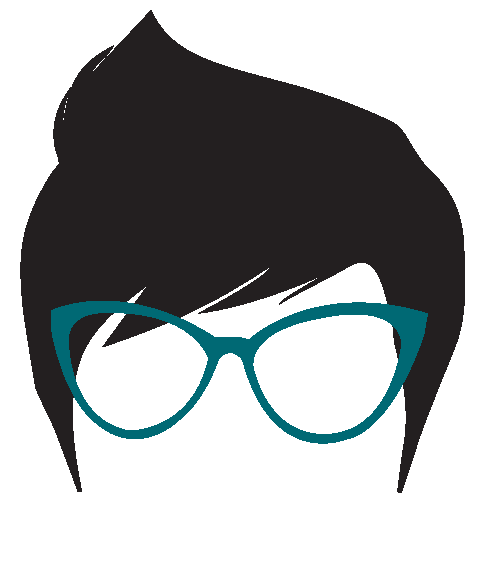
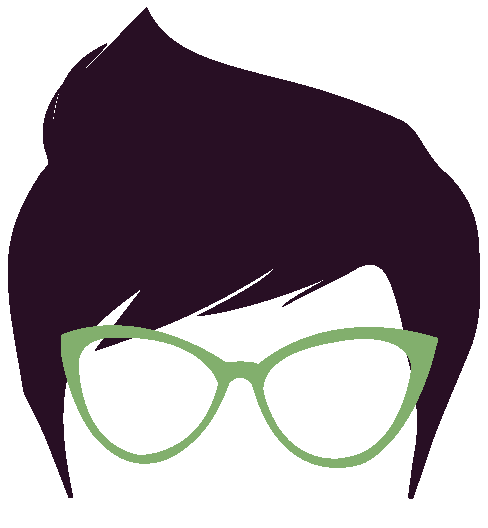
welcome and timer page

diff --git a/app/assets/stylesheets/skeleton.css b/app/assets/stylesheets/skeleton.css
@@ -51,7 +51,7 @@
 /* For devices larger than 550px */
 @media (min-width: 550px) {
   .container {
-    width: 80%; }
+    width: 50%; }
   .column,
   .columns {
     margin-left: 4%; }
@@ -122,12 +122,12 @@ html {
   font-size: 62.5%; }
 body {
   font-size: 1.5em; /* currently ems cause chrome bug misinterpreting rems on body element */
-  line-height: 1.6;
+  line-height: 1.5;
   font-weight: 400;
  /* font-family: "Raleway", "HelveticaNeue", "Helvetica Neue", Helvetica, Arial, sans-serif; */
-  font-family: "Century Gothic";
+  font-family: "Open Sans", sans-serif;
   text-align: center;
-  color: #13031F; 
+  color: #280F24; 
   background-color: #FFF;}
 
 
@@ -137,10 +137,12 @@ h1, h2, h3, h4, h5, h6 {
   margin-top: 0;
   margin-bottom: 1rem;
   font-weight: 300; }
-h1 { font-size: 4.0rem; line-height: 1.2;  letter-spacing: -.1rem;}
+h1 { font-size: 4.0rem; line-height: 1.2;  letter-spacing: -.1rem;
+    font-family: 'Slabo 27px', serif; margin-top: 1rem; }
 h2 { font-size: 3.6rem; line-height: 1.25; letter-spacing: -.1rem; }
 h3 { font-size: 3.0rem; line-height: 1.3;  letter-spacing: -.1rem; }
-h4 { font-size: 2.4rem; line-height: 1.35; letter-spacing: .1rem; color: #7BD149; font-weight: bold;}
+h4 { font-size: 2.5rem; line-height: 1.35; letter-spacing: .1rem; 
+    color: #80B06D; font-weight: normal; font-family: 'Slabo 27px', serif;}
 h5 { font-size: 1.8rem; line-height: 1.5;  letter-spacing: -.05rem; }
 h6 { font-size: 1.5rem; line-height: 1.6;  letter-spacing: 0; }
 
@@ -154,9 +156,24 @@ h6 { font-size: 1.5rem; line-height: 1.6;  letter-spacing: 0; }
   h6 { font-size: 1.5rem; }
 }
 
+#congrats span{
+  color: #80B06D;
+}
+
 p {
   margin-top: 0; }
 
+#usrinfo {
+  width: 150%;
+  text-align: right;
+}
+
+@media (max-width: 400px) {
+  #usrinfo { width: 100%; }
+}
+@media (max-width: 550px) {
+  #usrinfo {width: 115%; }
+}
 
 /* Links
 –––––––––––––––––––––––––––––––––––––––––––––––––– */
@@ -175,10 +192,10 @@ input[type="reset"],
 input[type="button"] {
   display: inline-block;
   height: 38px;
-  padding: 0 30px;
-  color: #4C1E24;
+  padding: 0 13px;
+  color: #280F24;
   text-align: center;
-  font-size: 11px;
+  font-size: 12px;
   font-weight: 600;
   line-height: 38px;
   letter-spacing: .1rem;
@@ -187,7 +204,7 @@ input[type="button"] {
   white-space: nowrap;
   background-color: transparent;
   border-radius: 4px;
-  border: 1px solid #4C1E24;
+  border: 1px solid #280F24;
   cursor: pointer;
   box-sizing: border-box; }
 .button:hover,
@@ -200,18 +217,20 @@ button:focus,
 input[type="submit"]:focus,
 input[type="reset"]:focus,
 input[type="button"]:focus {
-  color: #333;
-  border-color: #888;
-  outline: 0; }
+  color: #FFF;
+  border-color: #80B06D;
+  outline: 0; 
+  background-color: #80B06D;
+}
 .button.button-primary,
 button.button-primary,
 input[type="submit"].button-primary,
 input[type="reset"].button-primary,
 input[type="button"].button-primary {
   color: #FFF;
-  background-color: #7BD149;
-  border-color: #7BD149; }
-.button.button-primary:hover,
+  background-color: #80B06D;
+  border-color: #80B06D; }
+/*.button.button-primary:hover,
 button.button-primary:hover,
 input[type="submit"].button-primary:hover,
 input[type="reset"].button-primary:hover,
@@ -223,14 +242,33 @@ input[type="reset"].button-primary:focus,
 input[type="button"].button-primary:focus {
   color: #FFF;
   background-color: #1EAEDB;
-  border-color: #1EAEDB; }
+  border-color: #1EAEDB; }*/
 
 #submitBook {
   height: 25px;
   line-height: 24px;
   padding: 0px 10px;
-  font-size: 14px;
+  font-size: 12px;
   text-align: top;
+}
+
+/* Placeholder text */
+::-webkit-input-placeholder { 
+  font-family: "Century Gothic";
+ }
+::-moz-placeholder { 
+  color:#000; 
+  font-family: "Century Gothic";
+} /* firefox 19+ */
+:-ms-input-placeholder { color:#f00; } /* ie */
+input:-moz-placeholder { color:#f00; }
+
+/* Timer */
+#timer {
+  font-size: 1000%;
+  margin-top: -10%;
+  margin-bottom: -2%;
+  color: #280F24;
 }
 
 
@@ -281,8 +319,8 @@ select:focus {
   outline: 0; }
 label,
 legend {
-  font-size: 1000%;
-  margin-bottom: .5rem;}
+  font-size: 100%;
+  margin-top: .5rem }
 fieldset {
   padding: 0;
   border-width: 0; }

diff --git a/app/controllers/users_controller.rb b/app/controllers/users_controller.rb
@@ -2,6 +2,9 @@ class UsersController < ApplicationController
   def show
     if good_profile?
       @user = current_user
+      if @user.books.count <= 0
+        redirect_to welcome_path
+      end
     else
       redirect_to user_path(current_user.id)
     end
@@ -9,6 +12,19 @@ class UsersController < ApplicationController
   end
 
   def bot
+  end
+
+  def welcome
+    @user = current_user
+  end
+
+  def update
+    @user = current_user
+    @book = Book.find(params[:user][:user_books].to_i)
+    @user.books = [@book]
+    if @user.save
+      redirect_to user_path
+    end
   end
 
   def tweetout
@@ -36,6 +52,6 @@ class UsersController < ApplicationController
   end
 
   def user_params
-    params.require(:user).permit(:tweets_index)
+    params.require(:user).permit(:tweets_index, :book)
   end
 end

diff --git a/config/routes.rb b/config/routes.rb
@@ -32,10 +32,11 @@ Rails.application.routes.draw do
   #   resources :products
 
   # Users
-  resources :users, only: :show
+  resources :users, only: [:show, :update]
 
   # Tweetbot
   get 'bot', to: 'users#bot'
   post 'tweetout', to: 'users#tweetout'
+  get 'welcome', to: 'users#welcome'
 
 end
